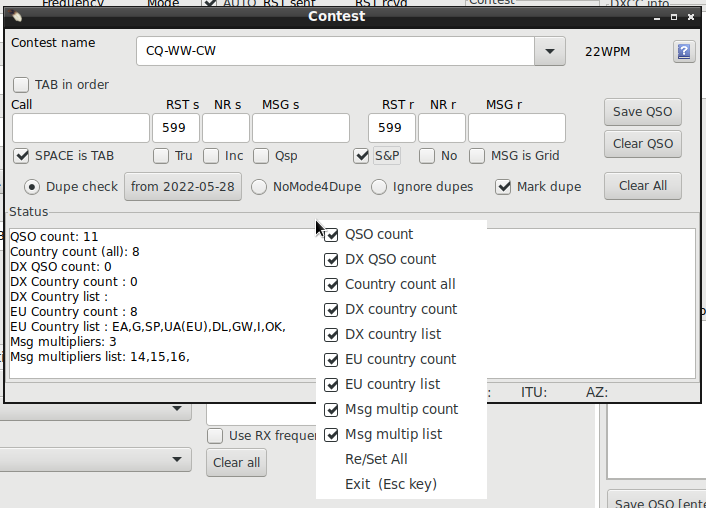
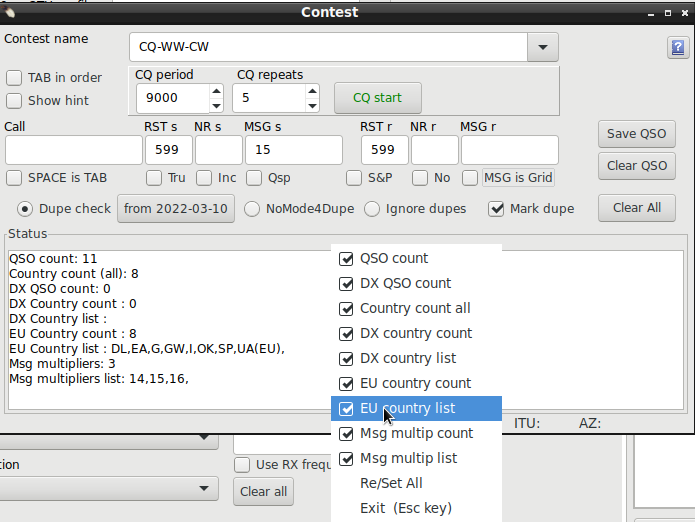
fixed contest help

Changed region(s): [[0.0, 0.0, 1.0, 1.0], [0.846, 0.9154, 1.0, 1.0]]

diff --git a/help/contest.html b/help/contest.html
@@ -77,7 +77,17 @@ Hotkeys work same way as with <a href="h20.html">New QSO window</a>.
 <li><b>Contest name</b> Selection box has a list of predefined contest names. When selecting one and leaving <b>Contest name</b> combo box name will be cut from "|"(including it) that separates contest name and explanation.
  You can also type contest name here if it is not in list. Be sure you do not use "|" character(s) in name because program will cut name from the first one found.
 <br><b>RECOMMENDATION:</b><br>
-Add date to contest name if you keep many contests in same log. That way <b>QSO list/Filter/Contest filter</b> can separate contests by name.<li><b>Tab in order</b> when checked overrides all other Tab settings (see below) and Tab Order is: Call-RSTs-NRs-MSGs-RSTr-NRr-MSGr-SaveQSO-ClearAll</li>
+Add date to contest name if you keep many contests in same log. That way <b>QSO list/Filter/Contest filter</b> can separate contests by name.</li>
+<li><b>Tab in order</b> when checked overrides all other Tab settings (see below) and Tab Order is: Call-RSTs-NRs-MSGs-RSTr-NRr-MSGr-SaveQSO-ClearAll</li>
+<li><b>Show hint</b> when checked shows help text of object that mouse cursor currently points</li>
+<li><b>CQ panel</b> is visible when <b>S&P</b> is not checked (CQ calling mode)</li>
+    <ul><li><b>CQ period</b> timer period in millisecons to send one CQ+listen (5000 - 50000, 5-50sec)
+    <br> To adjust: Set repeats=1, press CQ start, adjust period value so that F1 has time to run + listening time</li>
+    <li><b>CQ repeats</b> repeat period how many times CQ period is repeated (1 - 20)s</li>
+    <li><b>CQ start</b> start/stop repeated CQ calling. <b>Shorcut key: Shift+F1</b>. 
+    <br>Pressing <b>ESC</b> stops timer and CW send. It can not stop voice keyer script.
+    <br>Also writing anyting to <b>Call</b> will stop running timer and CW sending.</li>
+    </li></ul>
 <li><b>Call</b> when you leave this field callsign is moved to NewQSO. Callsign <b>turns BOLD RED</b> while typing if it is duplicate (and duplicate check is active).</li>
 <li><b>SPACE is TAB</b> when checked space bar acts like TAB-key moving to next field. <b>Note:</b>This prevents typing space (perhaps needed in MSG fields).</li>
 <li><b>Dupe check</b> Default checked. If you use same log for several contests, and/or other working, set the contest start date with <b>from YY-MM-DD</b> button.
@@ -154,6 +164,9 @@ Contest numbers and messages are saved in log in their own columns. Use <b>prefe
 <br><b>NOTE:</b> If you use macro that sends whole contest message (%xrs = RST, STX, STXString) message will skip empty ones. This way %xrs works for all contests.
 </p>
 <h4>Status view support</h4>
+<b>NOTE:</b> If you have one log called <b>contest</b> that you clear always before contest, to have just qsos of that contest, and after contest you move all qsos 
+with adif export to another log called <b>archive</b> you can view contest status afterwards from that log if you have used <b>unique contest names</b> I.E. added contest start date to name.
+<br> Find contest with <b>Filter/Contest filter</b> and copy name from selection list box and paste it to Contest window. You do not have to activate contest filter to see the status of that contest.
 <p><b>OK1WC memorial contest</b> status is supported.
 <p align="center">
 <img src="img/contest_mwc.png">
